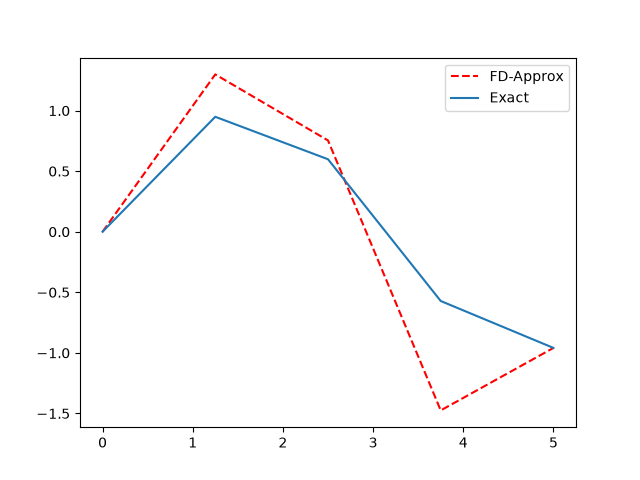
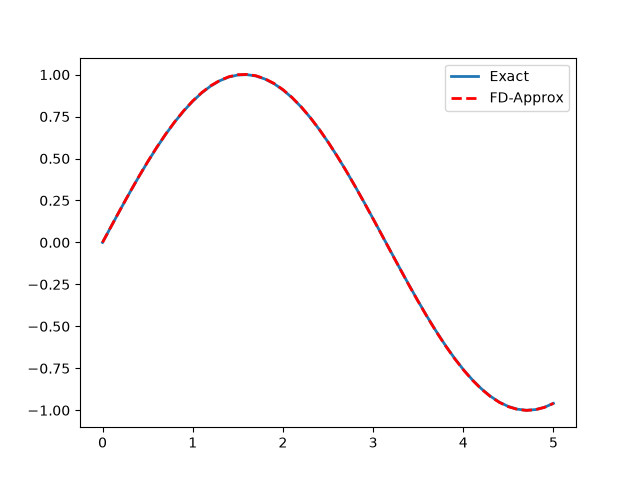
FIxed definition of A matrix

diff --git a/Scripts/problem_0_3.py b/Scripts/problem_0_3.py
@@ -1,19 +1,23 @@
 import numpy as np
 import matplotlib.pyplot as plt
 
+def rel_error(a, b, n):
+    x, d2f_approx = finiteDiff(a,b,n)
+    d2f_exact = d2f(x) # get the analytical solution
+    L_2_error = np.linalg.norm(d2f_exact-d2f_approx)/np.linalg.norm(d2f_exact)
+    L_inf_error = np.linalg.norm(d2f_exact-d2f_approx,ord=np.inf)/np.linalg.norm(d2f_exact,ord=np.inf)
+    return L_2_error, L_inf_error
+
 def main():
     # Part 1
     a = 0 # Left endpoint
     b = 5 # Right endpoint
-    num_nodes = 5
+    num_nodes = 51
     h = (b-a)/(num_nodes-1)
     x = np.linspace(a, b, num_nodes)
-    print(x)
 
     # Build the "mesh"
-    A = ((1/h**2 - np.sin(x)/(2*h)) * np.eye(num_nodes, k=-1) + 
-            (1 - 2/(h**2)) * np.eye(num_nodes) + 
-            (1/h**2 + np.sin(x)/(2*h)) * np.eye(num_nodes, k=1))
+    A = np.diag(1/h**2 - np.sin(x[1:])/(2*h), k=-1) + np.eye(num_nodes)*(1 - 2/(h**2)) + np.diag(1/h**2 + np.sin(x[:-1])/(2*h), k=1)
     b_hat = np.sin(x) * np.cos(x)
 
     # Add in the boundary conditions
@@ -27,12 +31,11 @@ def main():
 
     # solve the exact solution
     u_exact = np.sin(x)
-    print(A)
-    print(b_hat)
 
+    plt.rcParams['lines.linewidth'] = 2 # set a wider line width for all plots in this script
     plt.figure(1)
-    plt.plot(x, u_approx,'r--', label = "FD-Approx")
     plt.plot(x, u_exact, label = "Exact")
+    plt.plot(x, u_approx,'r--', label = "FD-Approx")
     plt.legend()
     plt.savefig("Images\\problem3_1.png")
 
